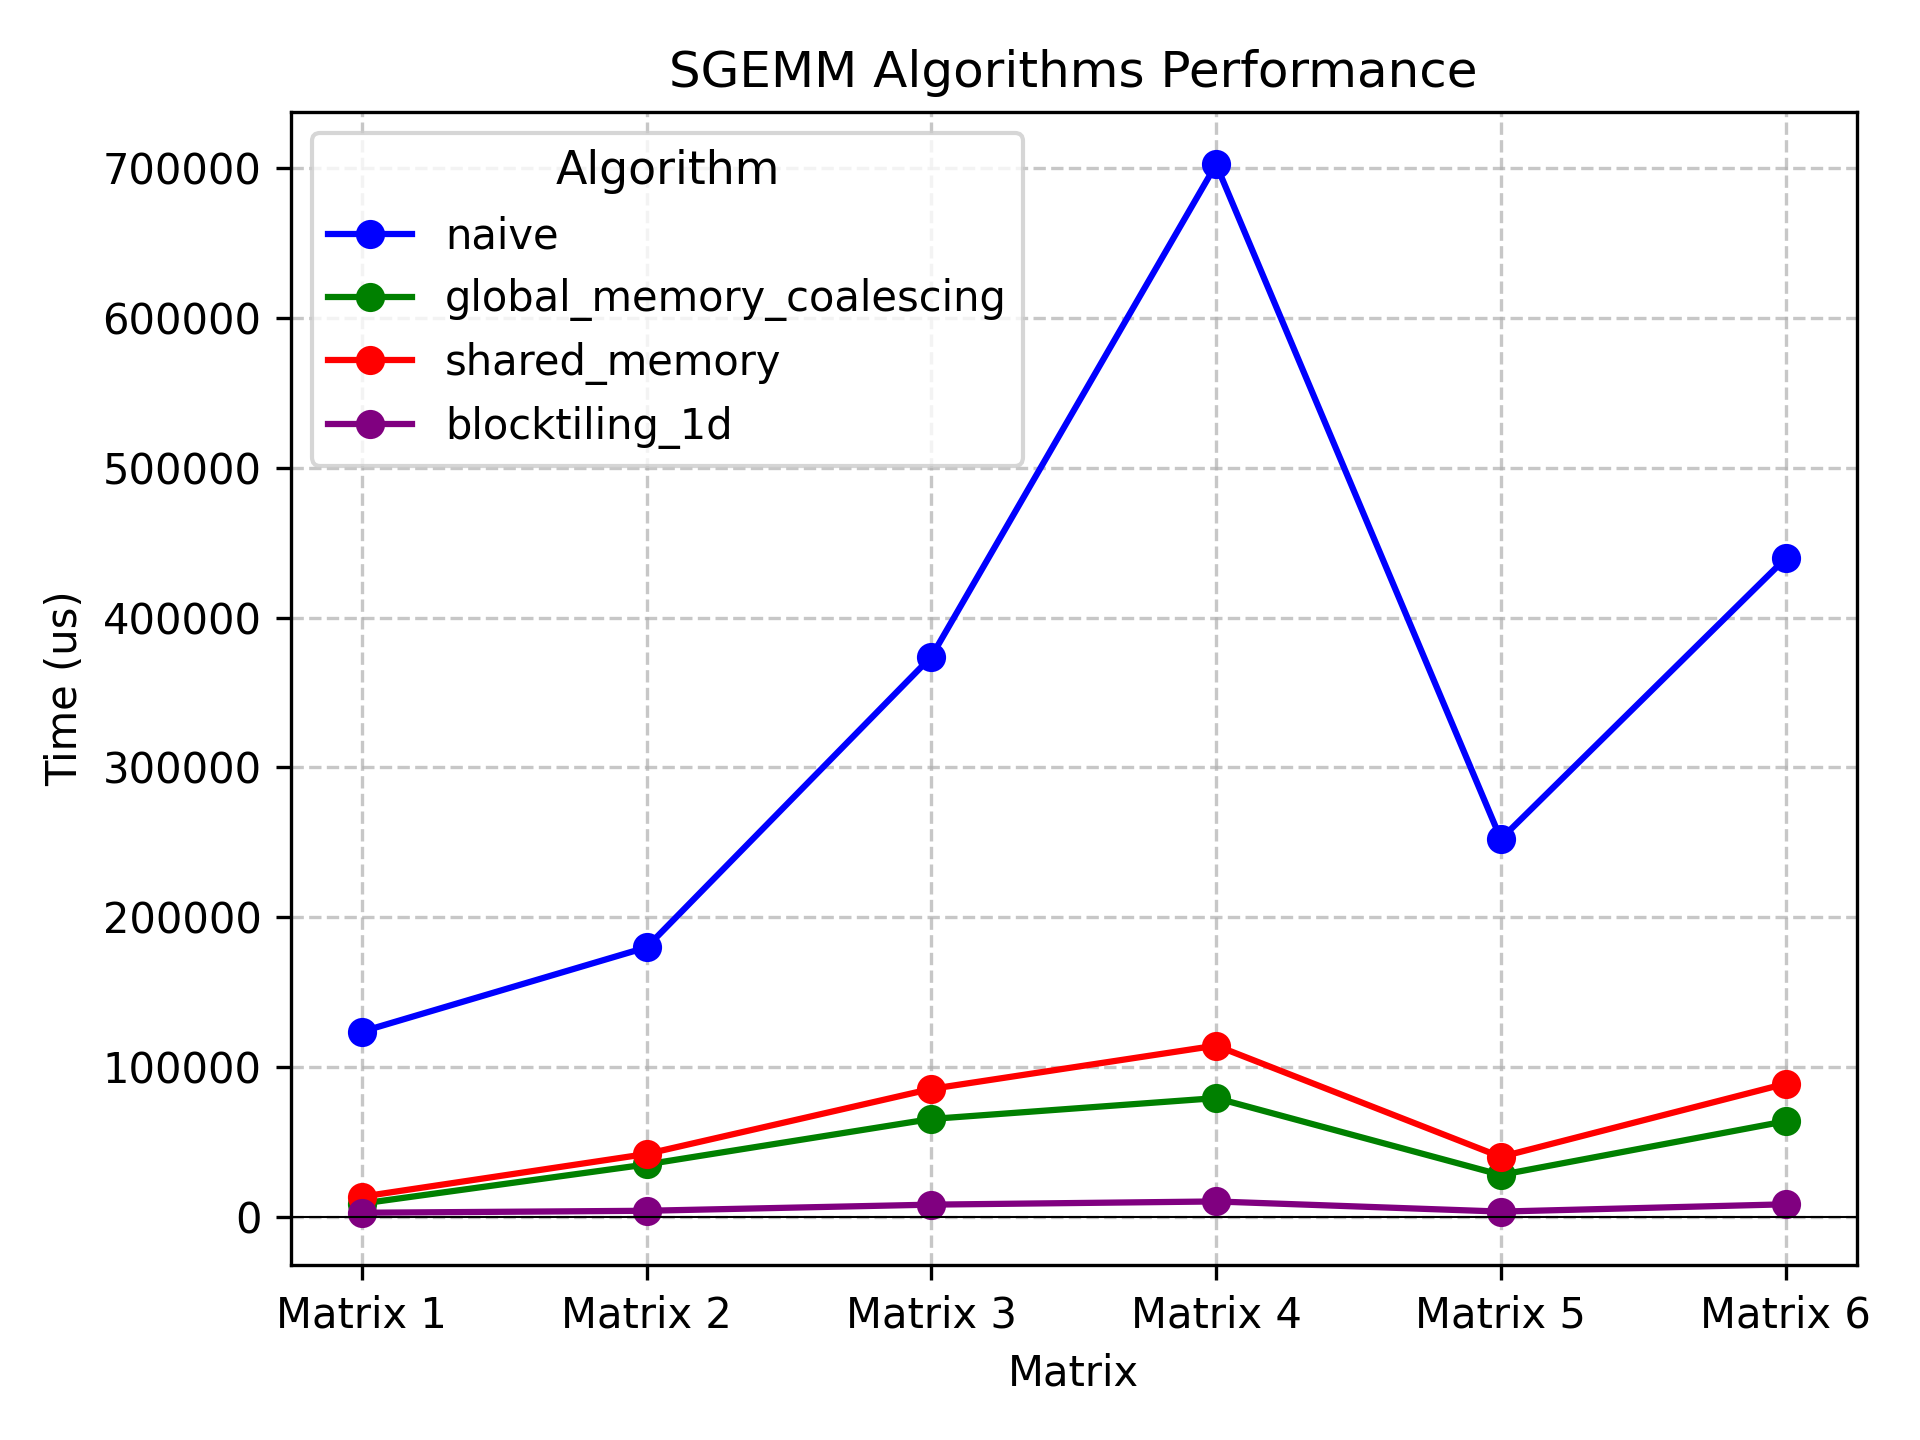
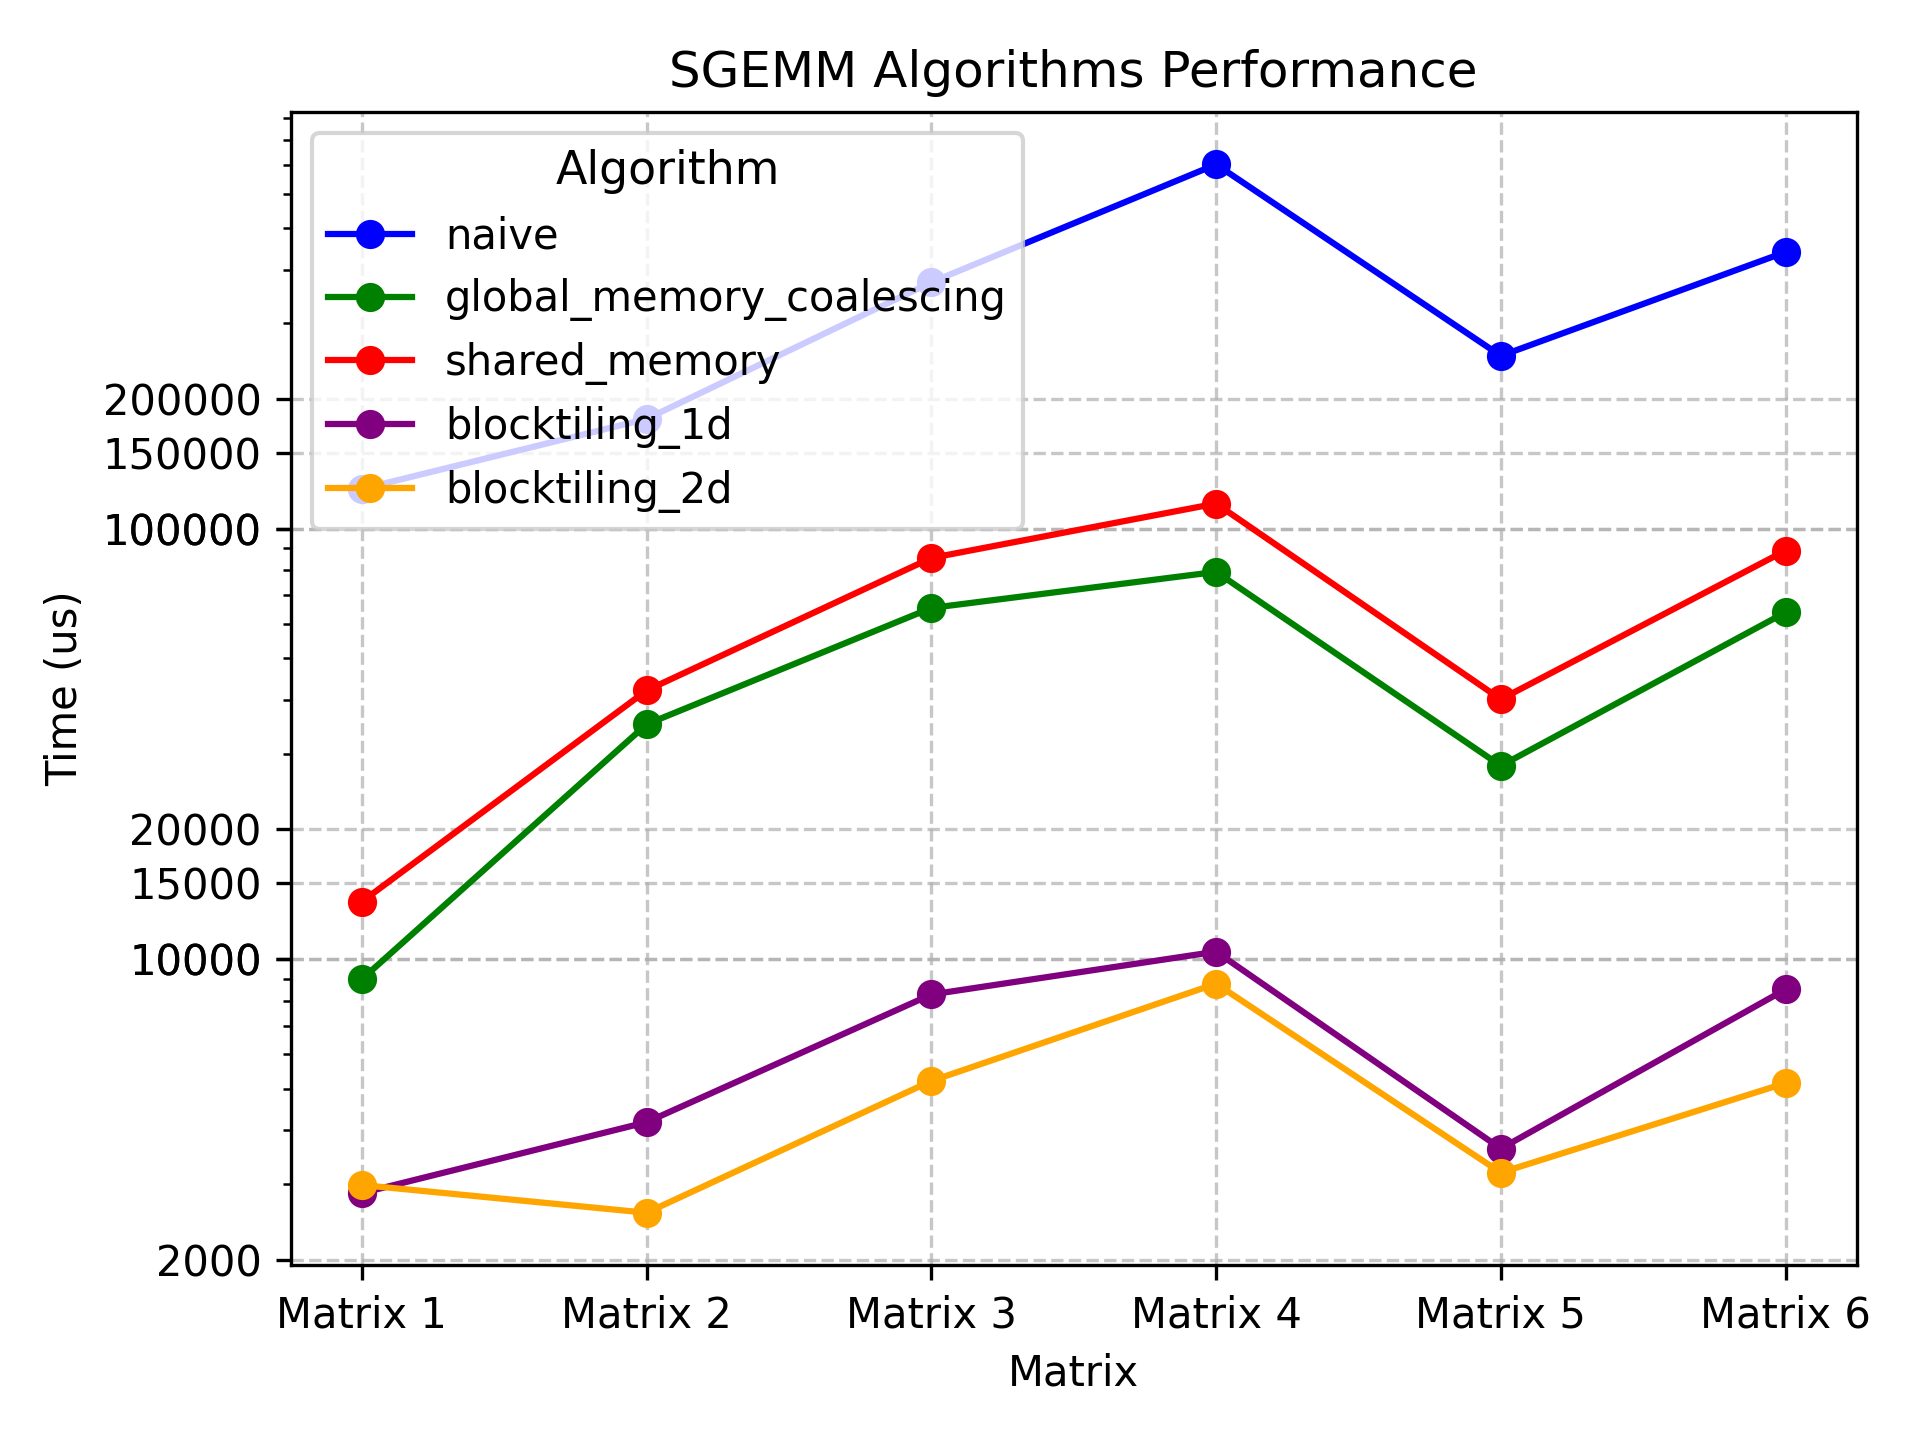
add blocktiling_2d's codes and data

diff --git a/scripts/draw_line.py b/scripts/draw_line.py
@@ -1,14 +1,20 @@
 import matplotlib.pyplot as plt
 import pandas as pd
-
+from matplotlib.ticker import LogLocator, ScalarFormatter
 # Data from the table
+algo = ['naive', 'global_memory_coalescing', 'shared_memory', 'blocktiling_1d', 'blocktiling_2d']
+algorithm = []
+for item in algo:
+    algorithm += [item]*6
+
 data = {
-    'Algorithm': ['naive']*6 + ['global_memory_coalescing']*6 + ['shared_memory']*6 + ['blocktiling_1d']*6,
-    'Matrix': ['Matrix 1', 'Matrix 2', 'Matrix 3', 'Matrix 4', 'Matrix 5', 'Matrix 6']*4,
+    'Algorithm': algorithm,
+    'Matrix': ['Matrix 1', 'Matrix 2', 'Matrix 3', 'Matrix 4', 'Matrix 5', 'Matrix 6']*len(algo),
     'Time (us)': [123707, 179951, 373887, 702349, 252176, 439462,
                   8976.98, 35116.6, 65442, 79366, 28115.3, 63925.2,
                   13594.9, 42083.7, 85513.6, 114396, 40141.6, 88951.5,
-                  2858.95, 4176.16, 8272.45, 10400.3, 3626.16, 8499.03]
+                  2858.95, 4176.16, 8272.45, 10400.3, 3626.16, 8499.03,
+                  2983.98, 2572.57, 5207.49, 8763.37, 3188.26, 5149.85]
 }
 
 # Create a pandas DataFrame
@@ -22,7 +28,8 @@ algorithm_colors = {
     'naive': 'blue',
     'global_memory_coalescing': 'green',
     'shared_memory': 'red',
-    'blocktiling_1d': 'purple'
+    'blocktiling_1d': 'purple',
+    'blocktiling_2d': 'orange'
 }
 
 # Plot each line
@@ -44,6 +51,13 @@ ax.grid(True, linestyle='--', alpha=0.7)
 # Customize axis ticks
 ax.set_xticks(df['Matrix'].unique())  # Use unique matrices for ticks
 ax.set_xticklabels(sorted(df['Matrix'].unique()))  # Sort to maintain order
+
+ax.set_yscale('log')
+# Customize log-scale axis ticks
+ax.yaxis.set_major_locator(LogLocator(subs=[1, 1.5, 2, 10]))
+
+# Use ScalarFormatter for log-scale axis labels
+ax.yaxis.set_major_formatter(ScalarFormatter())
 
 # Add a legend with a shadow and a title
 legend = ax.legend(title='Algorithm', loc='upper left')

diff --git a/README.md b/README.md
@@ -39,5 +39,11 @@ $GEMM_MODE=0/1/2/3/4/5
 |64|1605632|147|blocktiling_1d|10400.3|
 |64|559104|147|blocktiling_1d| 3626.16|
 |256|50176|1024|blocktiling_1d|8499.03|
+|32|1605632|27|blocktiling_2d|2983.98|
+|384|14161|1152|blocktiling_2d|2572.57|
+|256|43264|1152|blocktiling_2d|5207.49|
+|64|1605632|147|blocktiling_2d|8763.37|
+|64|559104|147|blocktiling_2d| 3188.26|
+|256|50176|1024|blocktiling_2d|5149.85|
 
 ![picture](./imgs/algorithm_performance_plot.png)
